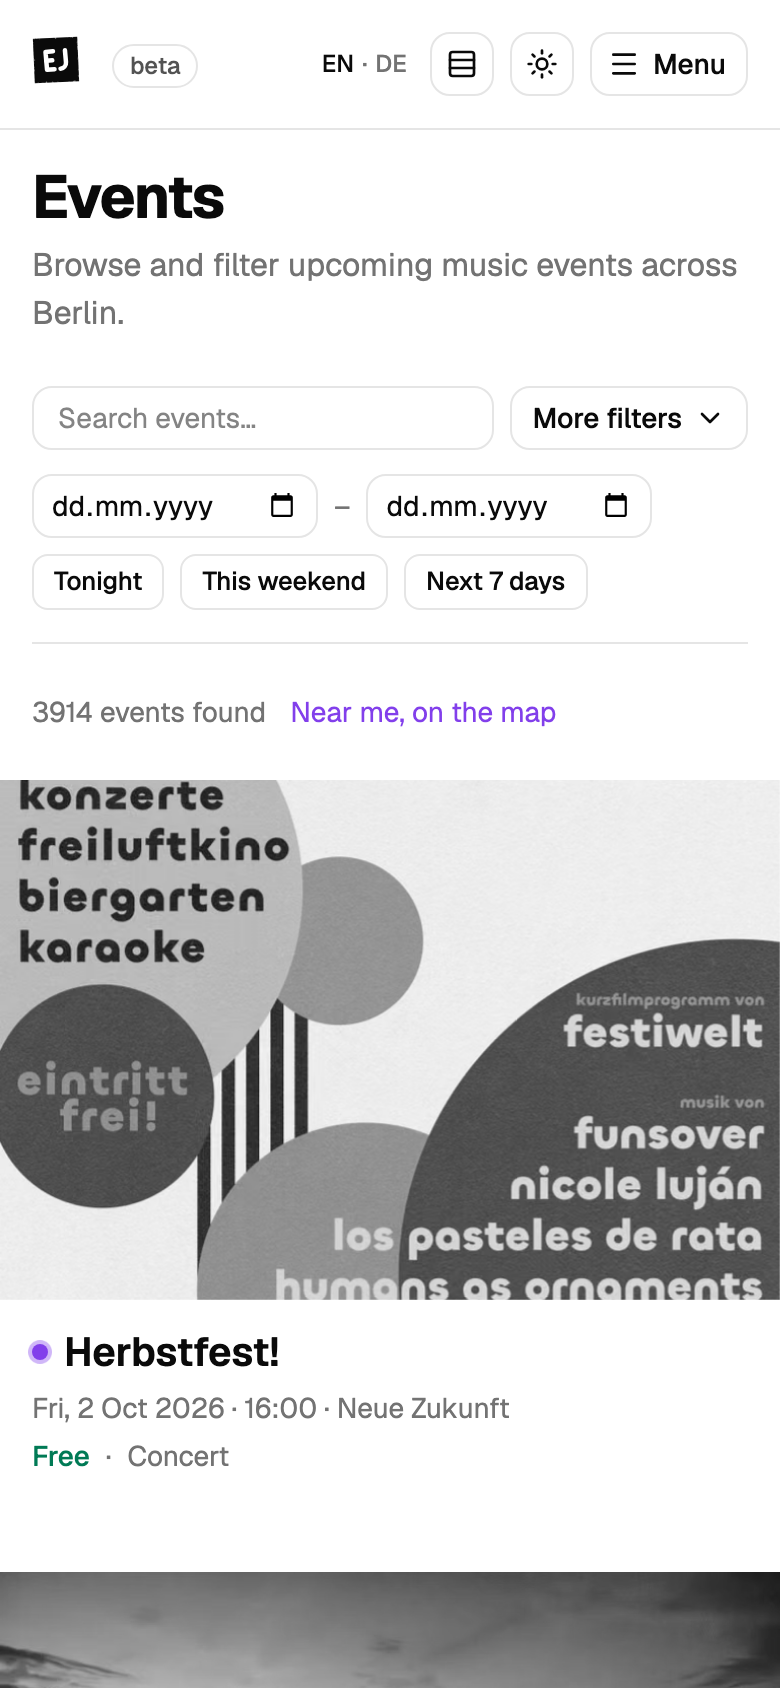
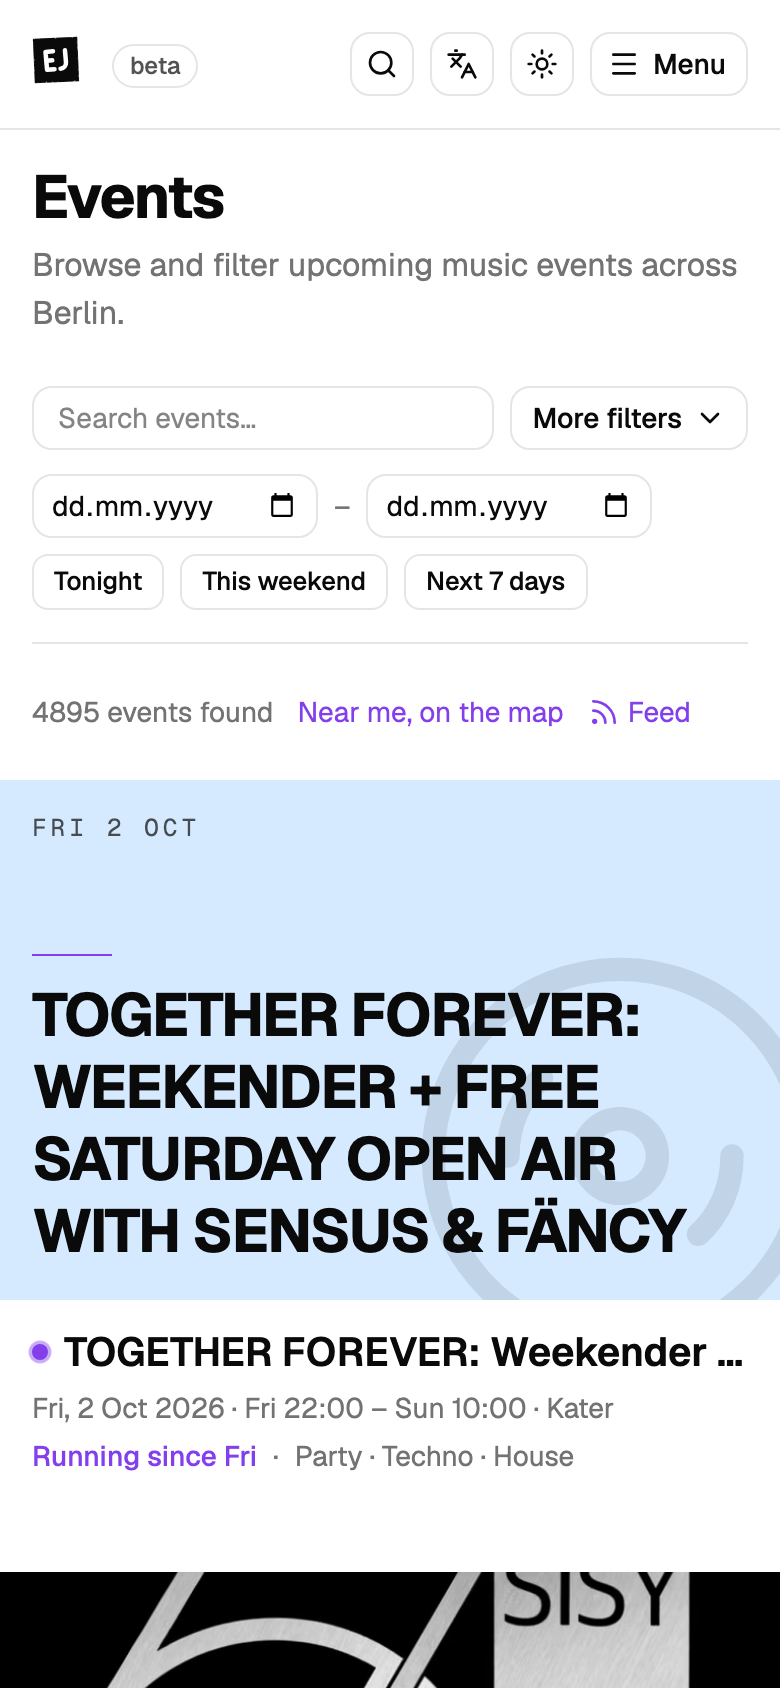
docs(screenshots): retake the README screenshots for the new header
The header gained the search button (#2515) and the language button (#2516), and docs/screenshots/README.md says to
retake the shots after a change to App.vue. Taken from production on 2026-10-04 with scripts/readme-screenshots.sh.

Claude-Session: https://claude.ai/code/session_01BqEfrxQL2PVKSKCMrzrc3g

diff --git a/docs/screenshots/README.md b/docs/screenshots/README.md
@@ -4,10 +4,10 @@ Pictures of the running product, for the README and anywhere else a reader needs
 
 | File                                                 | What it shows                                                               | Taken      |
 | ---------------------------------------------------- | --------------------------------------------------------------------------- | ---------- |
-| [`events-dark.png`](events-dark.png)                 | The events list — filter bar over the poster grid, dark theme, 1400×900 @2× | 2026-10-02 |
-| [`events-light.png`](events-light.png)               | The same list in the light theme, which the toggle is the only way into     | 2026-10-02 |
-| [`events-mobile-dark.png`](events-mobile-dark.png)   | The same list on a phone, dark theme, 390×844 @2×                           | 2026-10-02 |
-| [`events-mobile-light.png`](events-mobile-light.png) | The phone list in the light theme                                           | 2026-10-02 |
+| [`events-dark.png`](events-dark.png)                 | The events list — filter bar over the poster grid, dark theme, 1400×900 @2× | 2026-10-04 |
+| [`events-light.png`](events-light.png)               | The same list in the light theme, which the toggle is the only way into     | 2026-10-04 |
+| [`events-mobile-dark.png`](events-mobile-dark.png)   | The same list on a phone, dark theme, 390×844 @2×                           | 2026-10-04 |
+| [`events-mobile-light.png`](events-mobile-light.png) | The phone list in the light theme                                           | 2026-10-04 |
 
 **The date is the point of the table.** Nothing here can go stale loudly. A screenshot of last year's UI renders
 exactly as well as one of today's. The date next to it is the only signal a reader gets. Update the date when you
